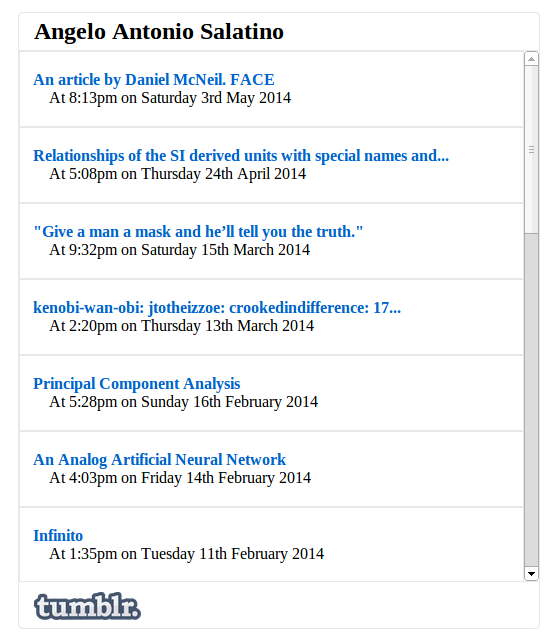
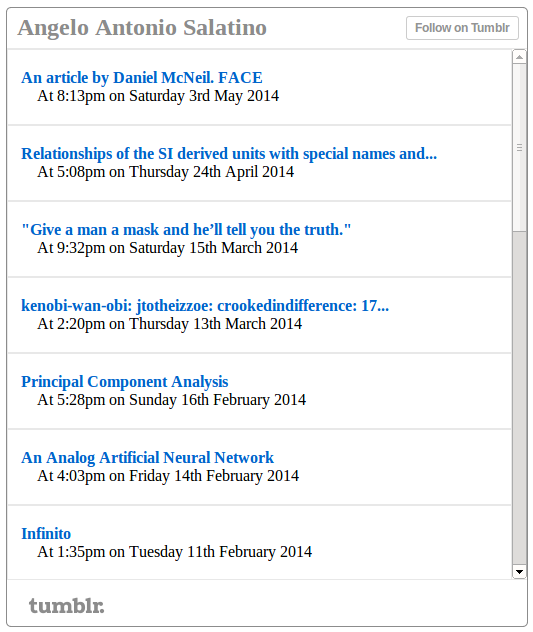
Completed

diff --git a/styles.css b/styles.css
@@ -1,0 +1,83 @@
+/*
+To change this license header, choose License Headers in Project Properties.
+To change this template file, choose Tools | Templates
+and open the template in the editor.
+*/
+/* 
+    Created on : Jul 1, 2014, 2:47:00 PM
+    Author     : angelosalatino
+*/
+#tumblr{
+    /*height: 600px; */
+    width: 520px; 
+    /*padding-left: 10px;*/
+    border: 1px solid;
+    border-radius: 5px;
+    border-color: #8c8c8c;
+    /*color:#00ccff;*/
+}
+.title a{
+    margin-left: 10px;
+    font-weight: bold; 
+    color:#8c8c8c;
+    
+}
+.title a:link {text-decoration: none}
+.title a:visited {text-decoration: none}
+.title a:active {text-decoration: none}
+.title a:hover {text-decoration: underline;}
+.btn{
+    margin-left: -8px;
+    margin-top: 8px;
+}
+#description{
+    /*color:#005791;*/
+    text-align: justify;
+}
+.posts{
+    margin-left:10px;
+}
+.posts a{font-weight: bold; color:#0066cc;}
+.posts a:link {text-decoration: none}
+.posts a:visited {text-decoration: none}
+.posts a:active {text-decoration: none}
+.posts a:hover {text-decoration: underline;}
+.elempost{
+    padding:3px;
+    border:1px solid #e8e8e8;
+}
+#super{
+    height: 40px; 
+}
+#super_in_left{
+    display: block;
+    float: left;
+    width:403px;
+    color: #8c8c8c;
+    font-size: 18pt;
+    font-weight: bold;
+    margin-top: 6px;
+}
+#super_in_right{
+    float:right;
+    width:113px;
+}
+#inside{
+    height: 530px; 
+    /*width: 550px; */
+    border-top: 1px solid #e8e8e8;
+    overflow:auto;
+    border-bottom: 1px solid #e8e8e8;
+}
+#bottom{
+    height:46px;
+    /*width:550px;*/
+}
+#cssimg{
+    height: 32px;
+    margin-top: 10px;
+    margin-left: 15px;
+}
+
+.clear { clear: both;}
+

diff --git a/rsstumblr.php b/rsstumblr.php
@@ -2,136 +2,76 @@
 /*
  * Php Section
  */
-
-
-function htmlallentities($str){
-  $res = '';
-  $strlen = strlen($str);
-  for($i=0; $i<$strlen; $i++){
-    $byte = ord($str[$i]);
-    if($byte < 128) // 1-byte char
-      $res .= $str[$i];
-    elseif($byte < 192); // invalid utf8
-    elseif($byte < 224) // 2-byte char
-      $res .= '&#'.((63&$byte)*64 + (63&ord($str[++$i]))).';';
-    elseif($byte < 240) // 3-byte char
-      $res .= '&#'.((15&$byte)*4096 + (63&ord($str[++$i]))*64 + (63&ord($str[++$i]))).';';
-    elseif($byte < 248) // 4-byte char
-      $res .= '&#'.((15&$byte)*262144 + (63&ord($str[++$i]))*4096 + (63&ord($str[++$i]))*64 + (63&ord($str[++$i]))).';';
-  }
-  return $res;
-}
-
-?>
-<!DOCTYPE html>
-<html>
-    <head>
-        <style type="text/css">
-            #tumblr{
-                /*height: 600px; */
-                width: 520px; 
-                /*padding-left: 10px;*/
-                border: 1px solid;
-                border-radius: 5px;
-                border-color: #e8e8e8;
-                /*color:#00ccff;*/
-            }
-            .title{
-                color: black;
-                font-size: 18pt;
-                font-weight: bold;
-            }
-            .title a{font-weight: bold; color:black;}
-            .title a:link {text-decoration: none}
-            .title a:visited {text-decoration: none}
-            .title a:active {text-decoration: none}
-            .title a:hover {text-decoration: underline;}
-            #description{
-                /*color:#005791;*/
-                text-align: justify;
-            }
-            .posts{
-                margin-left:10px;
-            }
-            .posts a{font-weight: bold; color:#0066cc;}
-            .posts a:link {text-decoration: none}
-            .posts a:visited {text-decoration: none}
-            .posts a:active {text-decoration: none}
-            .posts a:hover {text-decoration: underline;}
-            .elempost{
-                padding:3px;
-                border:1px solid #e8e8e8;
-                
-            }
-            #super{
-                height: 27px; 
-                /*width: 550px;*/
-                margin-left:10px; 
-                padding:5px;
-                color: black;
-                font-size: 18pt;
-                font-weight: bold;
-            }
-            #inside{
-                height: 530px; 
-                /*width: 550px; */
-                border-top: 1px solid #e8e8e8;
-                overflow:auto;
-                border-bottom: 1px solid #e8e8e8;
-            }
-            #bottom{
-                height:46px;
-                /*width:550px;*/
-            }
-            #cssimg{
-                height: 28px;
-                margin-top: 10px;
-                margin-left: 15px;
-            }
-        </style>
-    </head>
-    <body>
-        <div id="tumblr">
-<?php
-$website = "http://aas88.tumblr.com/rss"; // my Tumblr
+$blogname = "aas88"; // my Tumblr
+$website = "http://" . $blogname . ".tumblr.com";
+$RSSwebsite = $website . "/rss";
 
 /*
  * Acquiring some elements
  */
 $documento = new DOMDocument();
-$documento->load($website);
+$documento->load($RSSwebsite);
 $title = $documento->getElementsByTagName("title");
 $titolo = $title->item(0)->nodeValue;
-$description = $documento->getElementsByTagName("description");
-$descrizione = $description->item(0)->nodeValue;
-$descrizione = htmlallentities($descrizione);
-$elementi = $documento->getElementsByTagName( "item" );
+$description_temp = $documento->getElementsByTagName("description");
+$description = $description_temp->item(0)->nodeValue;
+$description = htmlallentities($description);
+$posts = $documento->getElementsByTagName("item");
 
-/*
- * Dynamic creation of divs in order to contain feeds
- */
-
-//echo "<p id=\"description\">".$descrizione."</p>";
-echo "<div id=\"super\" class=\"title\"><a href=\"".$website."\" target=\"_blank\" alt=\"".$descrizione."\" title=\"".$descrizione."\">".$titolo."</a></div>";
-echo "<div id=\"inside\">";
-foreach( $elementi as $elemento ){
-  $nomelemento = $elemento->getElementsByTagName( "title" );
-  $nome = $nomelemento->item(0)->nodeValue;
-  $nome = htmlallentities($nome);
-  $linklemento = $elemento->getElementsByTagName( "link" );
-  $link = $linklemento->item(0)->nodeValue;
-  $dataelemento = $elemento->getElementsByTagName( "pubDate" );
-  $data = $dataelemento->item(0)->nodeValue;
-  //$oDateA = new DateTime($data);
- //$oDateA->format('g:ia \o\n D, jS M Y').
-    //printing
-    echo "<div class=\"elempost\"><p class=\"posts\"><a href=\"".$link."\" target=\"_blank\" alt=\"".$nome."\" title=\"".$nome."\">".$nome."</a><br>";
-    echo "&nbsp;&nbsp;&nbsp;&nbsp;At ".date('g:ia \o\n l jS F Y', strtotime($data))."</p></div>";
+function htmlallentities($str) {
+    $res = '';
+    $strlen = strlen($str);
+    for ($i = 0; $i < $strlen; $i++) {
+        $byte = ord($str[$i]);
+        if ($byte < 128) // 1-byte char
+            $res .= $str[$i];
+        elseif ($byte < 192)
+            ; // invalid utf8
+        elseif ($byte < 224) // 2-byte char
+            $res .= '&#' . ((63 & $byte) * 64 + (63 & ord($str[++$i]))) . ';';
+        elseif ($byte < 240) // 3-byte char
+            $res .= '&#' . ((15 & $byte) * 4096 + (63 & ord($str[++$i])) * 64 + (63 & ord($str[++$i]))) . ';';
+        elseif ($byte < 248) // 4-byte char
+            $res .= '&#' . ((15 & $byte) * 262144 + (63 & ord($str[++$i])) * 4096 + (63 & ord($str[++$i])) * 64 + (63 & ord($str[++$i]))) . ';';
+    }
+    return $res;
 }
-echo "</div>
-<div id=\"bottom\"><img id=\"cssimg\" src=\"./images/logotumb.png\" alt=\"Tumblr\"/></div>";
 ?>
-            
+<!DOCTYPE html>
+<html>
+    <head>
+        <link rel="stylesheet"  type="text/css" href="styles.css">
+    </head>
+    <body>
+        <div id="tumblr">
+            <?php
+            /*
+             * Dynamic creation of divs in order to contain feeds
+             */
+            echo "<div id=\"super\">"
+            . "<div id=\"super_in_left\" class=\"title\"><a href=\"" . $website . "\" target=\"_blank\" alt=\"" . $description . "\" title=\"" . $description . "\">" . $titolo . "</a></div>"
+            . "<div id=\"super_in_right\">"
+            . "<iframe class=\"btn\" frameborder=\"0\" border=\"0\" scrolling=\"no\" allowtransparency=\"true\" height=\"27\" width=\"113\" src=\"http://platform.tumblr.com/v1/follow_button.html?button_type=2&tumblelog=" . $blogname . "&color_scheme=light\"></iframe>"
+            . "</div>"
+            . "<div class\"clear\"></div>"
+            . "</div>";
+            echo "<div id=\"inside\">";
+            foreach ($posts as $post) {
+                $post_title = $post->getElementsByTagName("title");
+                $title = $post_title->item(0)->nodeValue;
+                $title = htmlallentities($title);
+                $post_link = $post->getElementsByTagName("link");
+                $link = $post_link->item(0)->nodeValue;
+                $post_date = $post->getElementsByTagName("pubDate");
+                $date = $post_date->item(0)->nodeValue;
+
+                echo "<div class=\"elempost\"><p class=\"posts\"><a href=\"" . $link . "\" target=\"_blank\" alt=\"" . $title . "\" title=\"" . $title . "\">" . $title . "</a><br>";
+                echo "&nbsp;&nbsp;&nbsp;&nbsp;At " . date('g:ia \o\n l jS F Y', strtotime($date)) . "</p></div>";
+            }
+            echo "</div>";
+            echo "<div id=\"bottom\"><img id=\"cssimg\" src=\"./images/tumblr_logotype_gray_32.png\" alt=\"Tumblr\"/></div>";
+            ?>
+
         </div>
     </body>
 </html>
